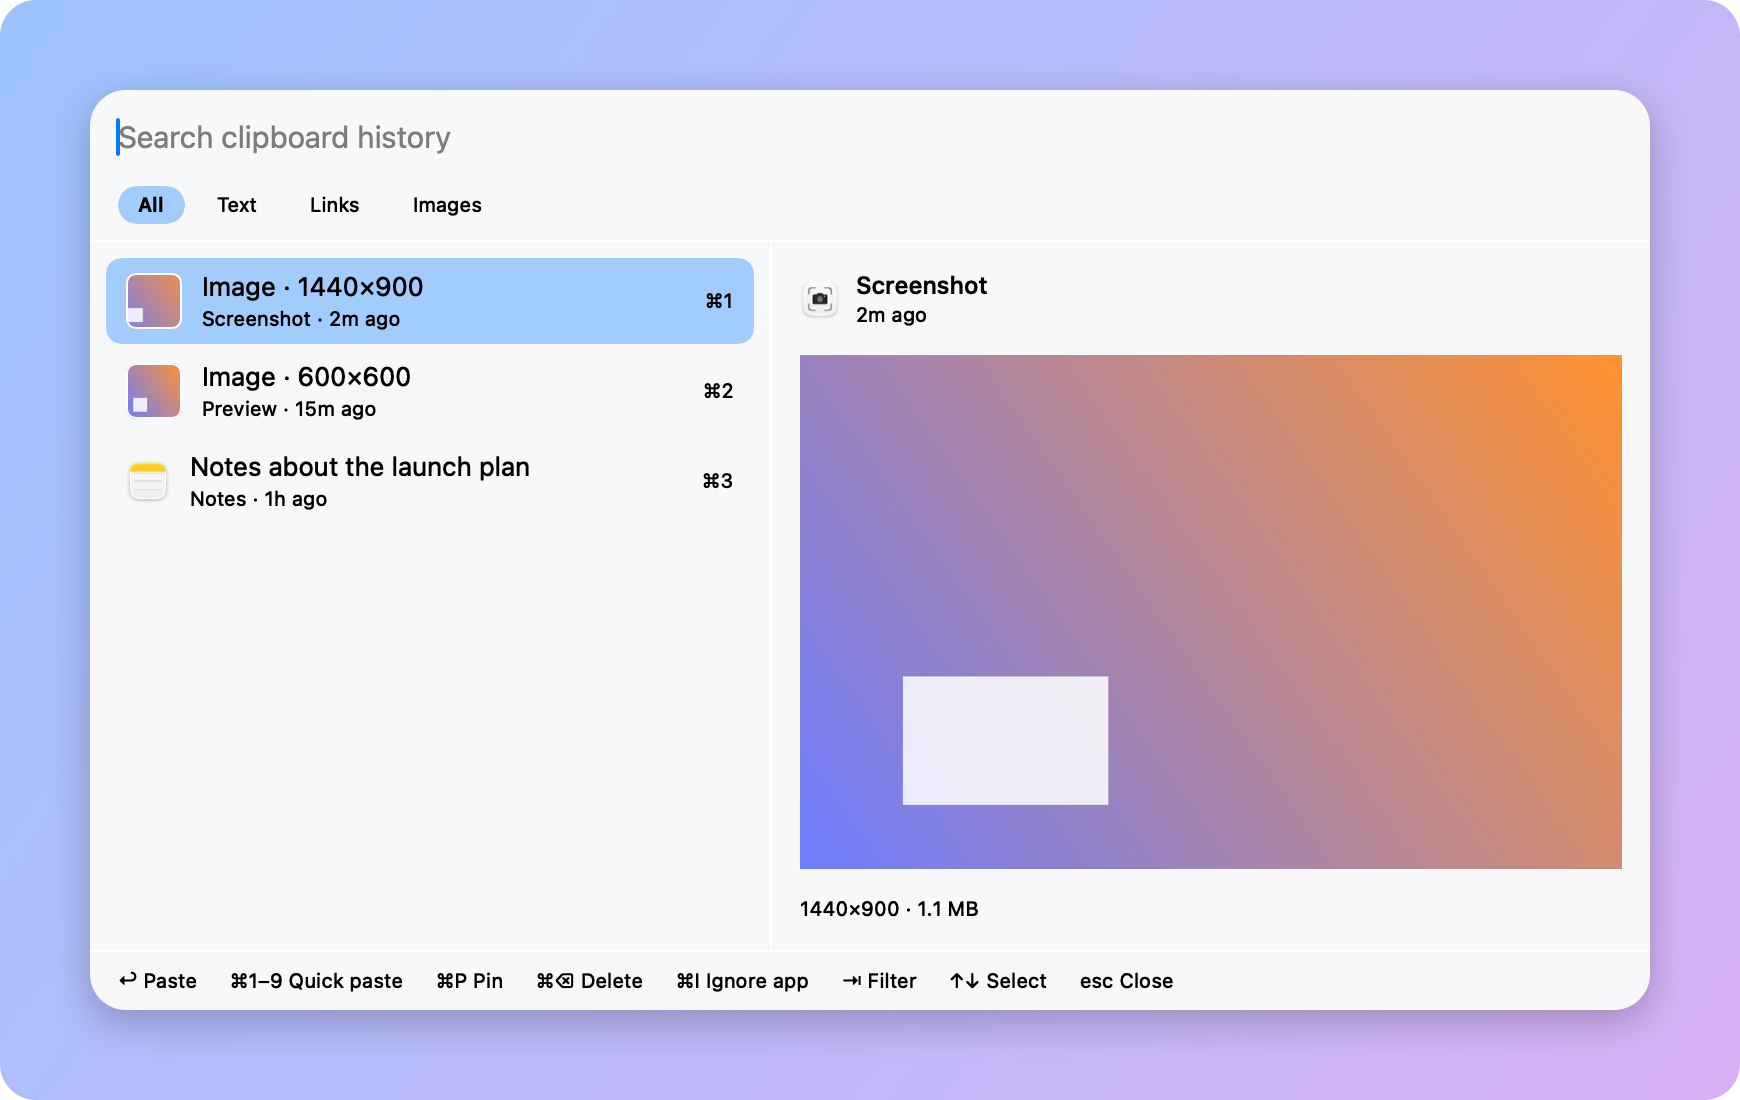
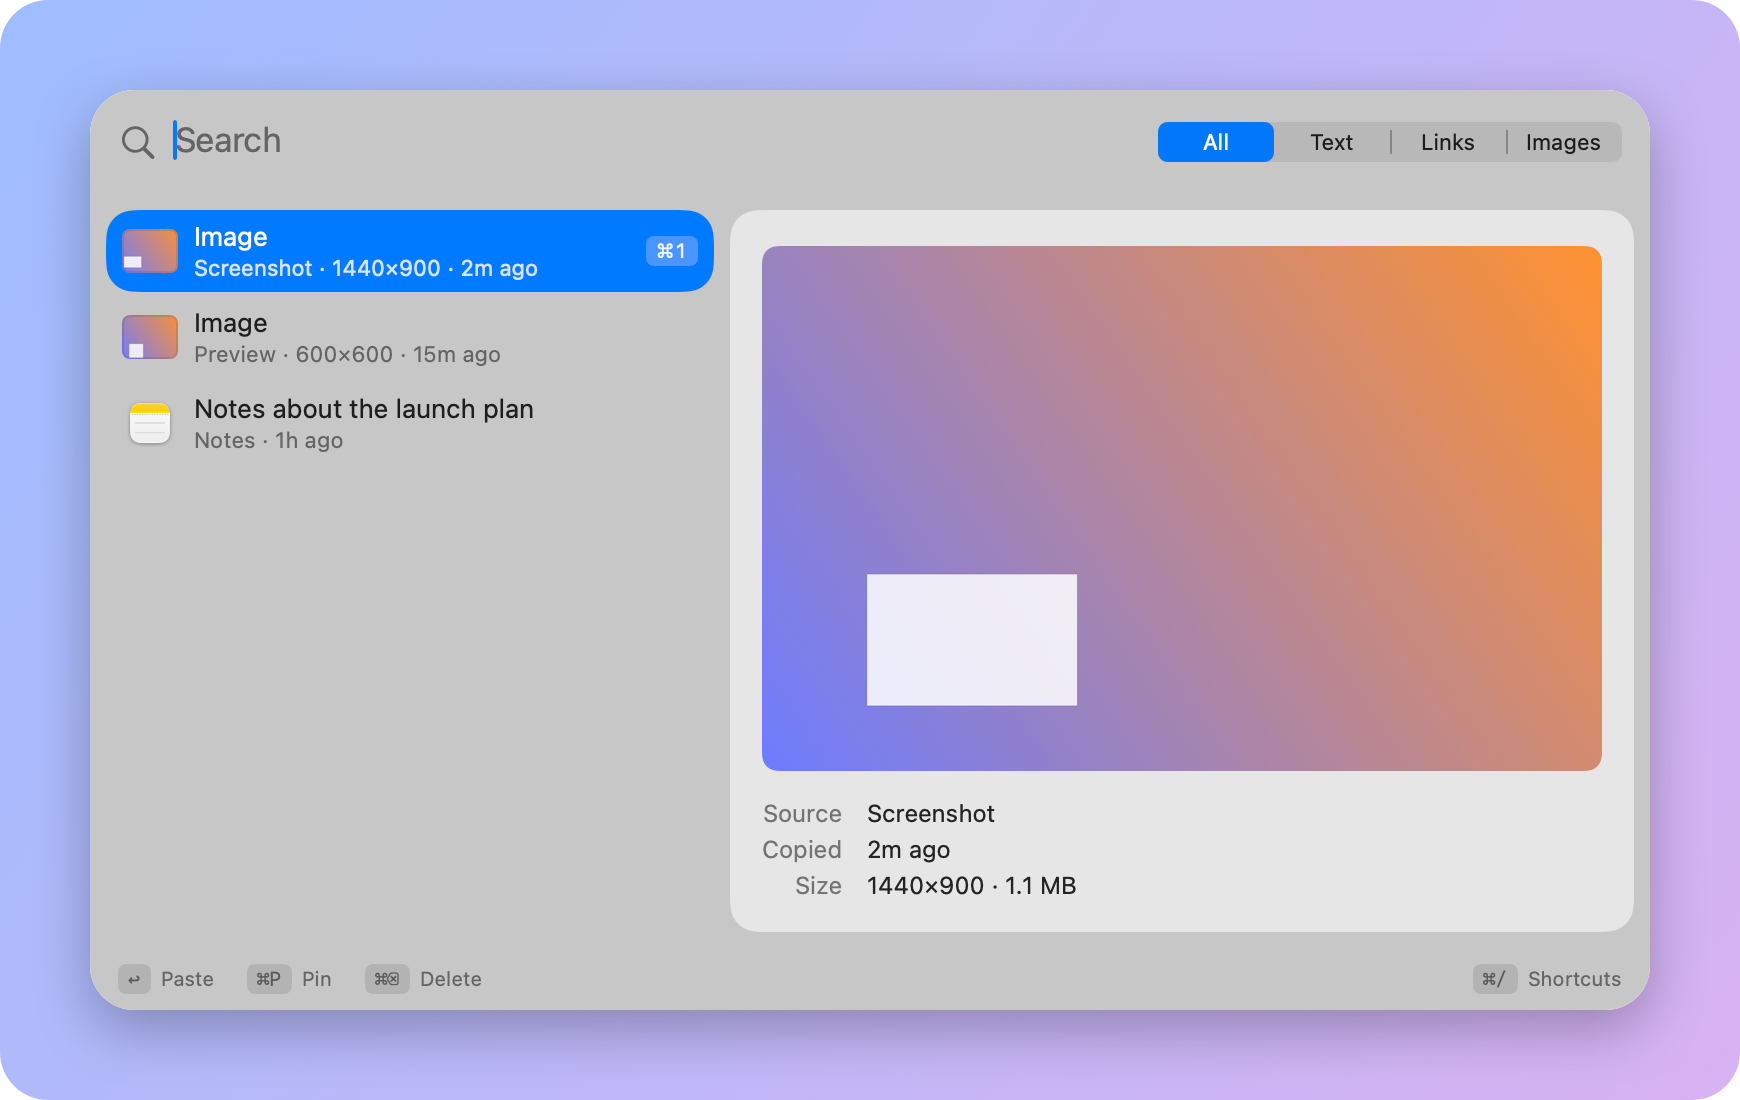
Menu bar menu per HIG; docs, images and manual checklist for 0.2

diff --git a/Sources/Pastu/StatusMenuController.swift b/Sources/Pastu/StatusMenuController.swift
@@ -5,11 +5,24 @@ import PastuCore
 /// Warnings and the ignored-apps submenu are refreshed every time the menu opens.
 @MainActor
 final class StatusMenuController: NSObject, NSMenuDelegate {
-    /// Set once the database is open; "Clear history…" does nothing without it.
+    /// Set once the database is open; "Clear History…" does nothing without it.
     var store: ClipStore?
     var model: ClipListModel?
-    /// Set when the history database could not be opened or written; shown in the menu.
-    var storageError: String?
+    /// What went wrong with the history database, if anything. The raw error goes to `NSLog` where it happens;
+    /// the menu only shows a short, human sentence.
+    enum StorageProblem {
+        case open, save, clear
+
+        var message: String {
+            switch self {
+            case .open: "Pastu can't open its history"
+            case .save: "Pastu can't save new clips right now"
+            case .clear: "Pastu couldn't clear the history"
+            }
+        }
+    }
+
+    var storageError: StorageProblem?
     var onShowPanel: () -> Void = {}
 
     private let recording: RecordingState
@@ -30,58 +43,72 @@ final class StatusMenuController: NSObject, NSMenuDelegate {
         super.init()
     }
 
-    /// Adds the item to the menu bar. Call once, after launch.
-    func install() {
-        let item = NSStatusBar.system.statusItem(withLength: NSStatusItem.variableLength)
-        item.button?.image = NSImage(
-            systemSymbolName: "doc.on.clipboard",
-            accessibilityDescription: PastuInfo.name
-        )
+    /// The menu, for tests.
+    var menuForTesting: NSMenu { menu }
+    private var menu = NSMenu()
 
+    /// What VoiceOver says for the menu bar icon.
+    static func accessibilityDescription(isPaused: Bool) -> String {
+        isPaused ? "\(PastuInfo.name) (paused)" : PastuInfo.name
+    }
+
+    /// Builds the menu and, unless `inStatusBar` is false (tests), adds the item to the menu bar. Call once, after launch.
+    func install(inStatusBar: Bool = true) {
         let menu = NSMenu()
+        self.menu = menu
         let warning = NSMenuItem(
-            title: "Clipboard access is denied — open Privacy settings…",
+            title: "Pastu can't read the clipboard — open Privacy settings…",
             action: #selector(openPrivacySettings), keyEquivalent: ""
         )
         warning.target = self
         warning.isHidden = true
         menu.addItem(warning)
+        warning.image = Self.warningImage
         accessWarningItem = warning
         menu.delegate = self
 
         let accessibilityWarning = NSMenuItem(
-            title: "Pastu needs Accessibility permission to paste — open settings…",
+            title: "Pastu needs Accessibility permission to paste — open Settings…",
             action: #selector(openAccessibilitySettings), keyEquivalent: ""
         )
         accessibilityWarning.target = self
+        accessibilityWarning.image = Self.warningImage
         accessibilityWarning.isHidden = true
         menu.addItem(accessibilityWarning)
         accessibilityWarningItem = accessibilityWarning
 
         let storageWarning = NSMenuItem(title: "", action: nil, keyEquivalent: "")
+        storageWarning.image = Self.warningImage
         storageWarning.isHidden = true
         menu.addItem(storageWarning)
         storageWarningItem = storageWarning
 
-        menu.addItem(withTitle: "Show \(PastuInfo.name)", action: #selector(togglePanel), keyEquivalent: "")
-            .target = self
-        let pause = menu.addItem(withTitle: "Pause recording", action: #selector(toggleRecording), keyEquivalent: "")
+        // Display only: the Carbon hotkey is the real trigger. Showing it teaches the shortcut.
+        let show = menu.addItem(withTitle: "Show \(PastuInfo.name)", action: #selector(togglePanel), keyEquivalent: "v")
+        show.keyEquivalentModifierMask = [.command, .shift]
+        show.target = self
+        let pause = menu.addItem(withTitle: "Pause Recording", action: #selector(toggleRecording), keyEquivalent: "")
         pause.target = self
         pauseItem = pause
-        menu.addItem(withTitle: "Clear history…", action: #selector(clearHistory), keyEquivalent: "")
+        menu.addItem(withTitle: "Clear History…", action: #selector(clearHistory), keyEquivalent: "")
             .target = self
-        let ignored = NSMenuItem(title: "Ignored apps", action: nil, keyEquivalent: "")
+        let ignored = NSMenuItem(title: "Ignored Apps", action: nil, keyEquivalent: "")
         ignored.submenu = NSMenu()
         menu.addItem(ignored)
         ignoredMenuItem = ignored
         menu.addItem(.separator())
+        menu.addItem(withTitle: "About \(PastuInfo.name)", action: #selector(showAbout), keyEquivalent: "")
+            .target = self
         menu.addItem(
             withTitle: "Quit \(PastuInfo.name)",
             action: #selector(NSApplication.terminate(_:)),
             keyEquivalent: "q"
         )
-        item.menu = menu
-        statusItem = item
+        if inStatusBar {
+            let item = NSStatusBar.system.statusItem(withLength: NSStatusItem.variableLength)
+            item.menu = menu
+            statusItem = item
+        }
         updatePauseUI()
     }
 
@@ -90,7 +117,7 @@ final class StatusMenuController: NSObject, NSMenuDelegate {
         accessWarningItem?.isHidden = !systemPasteboard.isAccessDenied
         accessibilityWarningItem?.isHidden = PasteSender.isTrusted
         if let storageError {
-            storageWarningItem?.title = "⚠ History problem: \(storageError)"
+            storageWarningItem?.title = storageError.message
             storageWarningItem?.isHidden = false
         } else {
             storageWarningItem?.isHidden = true
@@ -107,7 +134,7 @@ final class StatusMenuController: NSObject, NSMenuDelegate {
         SystemSettings.openPrivacy()
     }
 
-    @objc private func toggleRecording() {
+    @objc func toggleRecording() {
         recording.toggle()
         updatePauseUI()
     }
@@ -119,14 +146,20 @@ final class StatusMenuController: NSObject, NSMenuDelegate {
     }
 
     private func updatePauseUI() {
-        pauseItem?.title = recording.isPaused ? "Resume recording" : "Pause recording"
+        // A checkmark, not a renamed item: the menu keeps one stable label per action.
+        pauseItem?.state = recording.isPaused ? .on : .off
         let symbol = recording.isPaused ? "pause.circle" : "doc.on.clipboard"
-        statusItem?.button?.image = NSImage(systemSymbolName: symbol, accessibilityDescription: PastuInfo.name)
+        statusItem?.button?.image = NSImage(
+            systemSymbolName: symbol,
+            accessibilityDescription: Self.accessibilityDescription(isPaused: recording.isPaused)
+        )
         statusItem?.button?.appearsDisabled = recording.isPaused
     }
 
     @objc private func clearHistory() {
         guard let store else { return }
+        // An accessory app is not frontmost; without this the alert can open behind other windows.
+        NSApp.activate()
         let alert = NSAlert()
         alert.messageText = "Clear clipboard history?"
         alert.informativeText = "All clips except pinned ones will be deleted. This cannot be undone."
@@ -140,9 +173,18 @@ final class StatusMenuController: NSObject, NSMenuDelegate {
             PanelCaches.purgeAll()
         } catch {
             NSLog("Pastu could not clear the history: \(error)")
-            storageError = "could not clear: \(error)"
+            storageError = .clear
         }
         model?.refresh()
+    }
+
+    @objc private func showAbout() {
+        NSApp.activate()
+        NSApp.orderFrontStandardAboutPanel(nil)
+    }
+
+    private static var warningImage: NSImage? {
+        NSImage(systemSymbolName: "exclamationmark.triangle", accessibilityDescription: "Warning")
     }
 
     @objc private func togglePanel() {

diff --git a/Tests/PastuTests/StatusMenuTests.swift b/Tests/PastuTests/StatusMenuTests.swift
@@ -1,0 +1,64 @@
+import AppKit
+import Testing
+@testable import Pastu
+@testable import PastuCore
+
+@MainActor
+@Suite struct StatusMenuTests {
+    private func makeController(pasteboard: NSPasteboard) -> StatusMenuController {
+        StatusMenuController(
+            recording: RecordingState(), ignoredApps: IgnoredApps(),
+            systemPasteboard: SystemPasteboard(pasteboard: pasteboard)
+        )
+    }
+
+    /// Builds the menu without adding a real item to the menu bar, on a private pasteboard.
+    private func withMenu(_ body: (StatusMenuController, NSMenu) -> Void) {
+        let raw = NSPasteboard(name: .init("pastu.test.\(UUID())"))
+        defer { raw.releaseGlobally() }
+        let controller = makeController(pasteboard: raw)
+        controller.install(inStatusBar: false)
+        body(controller, controller.menuForTesting)
+    }
+
+    @Test func itemsFollowTheHIGOrder() {
+        withMenu { _, menu in
+            let titles = menu.items.filter { !$0.isHidden && !$0.isSeparatorItem }.map(\.title)
+            #expect(titles == ["Show Pastu", "Pause Recording", "Clear History…", "Ignored Apps", "About Pastu", "Quit Pastu"])
+        }
+    }
+
+    @Test func showItemDisplaysTheHotkey() throws {
+        withMenu { _, menu in
+            let show = menu.items.first { $0.title == "Show Pastu" }
+            #expect(show?.keyEquivalent == "v")
+            #expect(show?.keyEquivalentModifierMask == [.command, .shift])
+        }
+    }
+
+    @Test func pausingChecksTheItemInsteadOfRenamingIt() {
+        withMenu { controller, menu in
+            let pause = menu.items.first { $0.title == "Pause Recording" }
+            #expect(pause?.state == .off)
+            controller.toggleRecording()
+            #expect(pause?.state == .on)
+            #expect(pause?.title == "Pause Recording")
+        }
+    }
+
+    @Test func accessibilityDescriptionMentionsPause() {
+        #expect(StatusMenuController.accessibilityDescription(isPaused: true) == "Pastu (paused)")
+        #expect(StatusMenuController.accessibilityDescription(isPaused: false) == "Pastu")
+    }
+
+    @Test func warningsGetAnIconAndPlainText() {
+        withMenu { controller, menu in
+            controller.storageError = .save
+            controller.menuNeedsUpdate(menu)
+            let warning = menu.items.first { $0.title == "Pastu can't save new clips right now" }
+            #expect(warning != nil)
+            #expect(warning?.isHidden == false)
+            #expect(warning?.image != nil)
+        }
+    }
+}

diff --git a/Sources/Pastu/AppDelegate.swift b/Sources/Pastu/AppDelegate.swift
@@ -62,7 +62,7 @@ final class AppDelegate: NSObject, NSApplicationDelegate {
                     self.statusMenu.storageError = nil
                 } catch {
                     NSLog("Pastu could not save a clip: \(error)")
-                    self.statusMenu.storageError = "could not save: \(error)"
+                    self.statusMenu.storageError = .save
                 }
                 if self.panelController?.isVisible == true { model.refresh() }
             }
@@ -73,7 +73,7 @@ final class AppDelegate: NSObject, NSApplicationDelegate {
             pasteCoordinator.monitor = monitor
         } catch {
             NSLog("Pastu could not open its database: \(error)")
-            statusMenu.storageError = "could not open history: \(error)"
+            statusMenu.storageError = .open
         }
 
         // ⌘⇧V

diff --git a/docs/design/2026-11-21-panel-redesign-checklist.md b/docs/design/2026-11-21-panel-redesign-checklist.md
@@ -1,0 +1,46 @@
+# Manual checklist: panel redesign (0.2)
+
+Things the automated tests cannot check. Run through them on a real build before releasing 0.2.
+Use a build made with `scripts/build-app.sh` and sample clips only.
+
+## Setup
+- [ ] Accessibility permission must be granted again after installing a build with the new bundle identifier
+      (remove the old Pastu entry in System Settings, then allow the new one).
+- [ ] Copy a few texts, a link, a code snippet and several screenshots so every row type exists.
+
+## Look
+- [ ] macOS 26, light mode: Liquid Glass shell looks right; the shadow follows the rounded corners (no square halo).
+- [ ] macOS 26, dark mode: same checks.
+- [ ] Text and previews never sit directly on glass; over a busy wallpaper everything stays readable.
+- [ ] Hover on glass: row hover and chip hover are visible and calm.
+- [ ] macOS 15 (if a machine is available): fallback look is clean; the segmented filter control works.
+- [ ] Reduce Transparency: panel is opaque and readable.
+- [ ] Reduce Motion: no sliding or fading animations.
+- [ ] Increase Contrast: borders, selection and secondary text are clearly visible.
+
+## Mouse and focus
+- [ ] In TextEdit, Safari and Terminal: start typing, then click a row, a filter chip and the clear button, and open
+      the context menu. Typing still goes to the search field, the target app never loses focus.
+- [ ] After each of those, press Return or double click a row: the paste lands in that app.
+- [ ] Control-click opens the context menu without also selecting or pasting the row.
+- [ ] Context menu dismissed by clicking into another app: the panel closes and typing stays in that app.
+- [ ] Context menu dismissed by clicking on the panel or choosing an item: the panel stays open and focus is in the
+      search field.
+- [ ] Esc with the mouse pointer outside the panel closes it.
+- [ ] Esc clears the search first, then closes.
+- [ ] Right click: Paste, Copy, Pin, Delete and Ignore app each work.
+
+## VoiceOver
+- [ ] Each row reads its label plus the clip text.
+- [ ] Selection changes are announced.
+- [ ] Notices (for example "Ignoring Terminal") are announced.
+- [ ] VoiceOver can press the segmented filter control (macOS 15 fallback and macOS 26).
+
+## Menu bar menu
+- [ ] Items read: Show Pastu, Pause Recording, Clear History…, Ignored Apps, About Pastu, Quit Pastu.
+- [ ] Show Pastu displays ⌘⇧V; Pause Recording gets a checkmark while paused and the icon description says paused.
+- [ ] Clear History… alert opens in front; About Pastu shows the standard panel with the right version.
+
+## Performance
+- [ ] Panel open latency with several screenshot clips in the history feels as fast as 0.1.
+- [ ] Scrolling a long history loads more clips without a stutter.

diff --git a/CHANGELOG.md b/CHANGELOG.md
@@ -6,6 +6,32 @@ follows [Semantic Versioning](https://semver.org/).
 
 ## [Unreleased]
 
+### Added
+- A redesigned panel with a Liquid Glass look on macOS 26 (a clean fallback look on macOS 15), rounded corners
+  and a calmer preview with source, time and size.
+- Mouse support: click a clip to select it, double click to paste it, right click for Paste, Copy, Pin, Delete and
+  Ignore app. Clicking never takes focus away from the app you are pasting into.
+- Pictures show as thumbnails in the list and a large preview, with their size.
+- Links open from the preview; code-like clips use a monospaced font; search matches are highlighted and the
+  preview jumps to the match in long clips.
+- Keyboard: ⇧Tab filters backwards, ⌘↑/⌘↓ and Home/End jump to the first or last clip, Page Up/Down move by a page,
+  and ⌘/ shows every shortcut.
+- Clear messages for empty history, no results and filters with nothing in them.
+- VoiceOver reads each clip and announces selection changes and notices.
+- "About Pastu" in the menu bar menu.
+
+### Changed
+- Esc clears the search first and closes the panel on the second press.
+- The panel always opens on "All" with the newest clip selected and an empty search.
+- The menu bar menu follows macOS conventions: title-case items, a checkmark on "Pause Recording" instead of a
+  renamed item, and ⌘⇧V shown next to "Show Pastu".
+- Warnings in the menu use an icon and plain wording instead of raw error text.
+- Long histories load more clips as you scroll.
+
+### Fixed
+- The Clear History confirmation could open behind other windows.
+- Thumbnails no longer reload every time the panel opens.
+
 ## [0.1.1] - 2026-11-21
 
 First public prerelease (early prototype). Not notarized; see the release notes for first-launch steps.

diff --git a/README.md b/README.md
@@ -48,12 +48,18 @@ yourself.
 | ⌘⇧V | Open Pastu |
 | Type | Search everything you copied |
 | ↑ ↓ / Return | Pick a clip and paste it |
+| ⌘↑ ⌘↓ / Home End | Jump to the first or last clip |
+| Page Up / Page Down | Move a page at a time |
 | ⌘1 – ⌘9 | Paste one of the first nine clips |
 | ⌘P | Pin a clip (stays on top, never deleted) |
 | ⌘⌫ | Delete a clip |
 | ⌘I | Never record copies from this clip's app |
-| Tab | Show all, text, links or images |
-| Esc | Close |
+| Tab / ⇧Tab | Show all, text, links or images (⇧Tab goes backwards) |
+| ⌘/ | Show all shortcuts |
+| Esc | Clear the search first, then close |
+
+With the mouse: click a clip to select it, double click to paste it, right click for Paste, Copy, Pin, Delete and
+Ignore.
 
 The menu bar icon lets you pause recording, clear the history and manage ignored apps.
 
